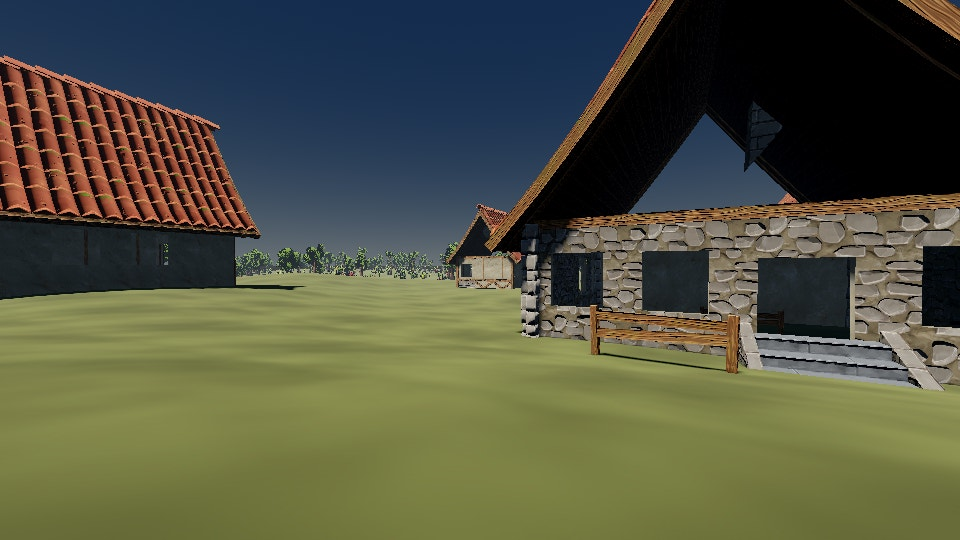
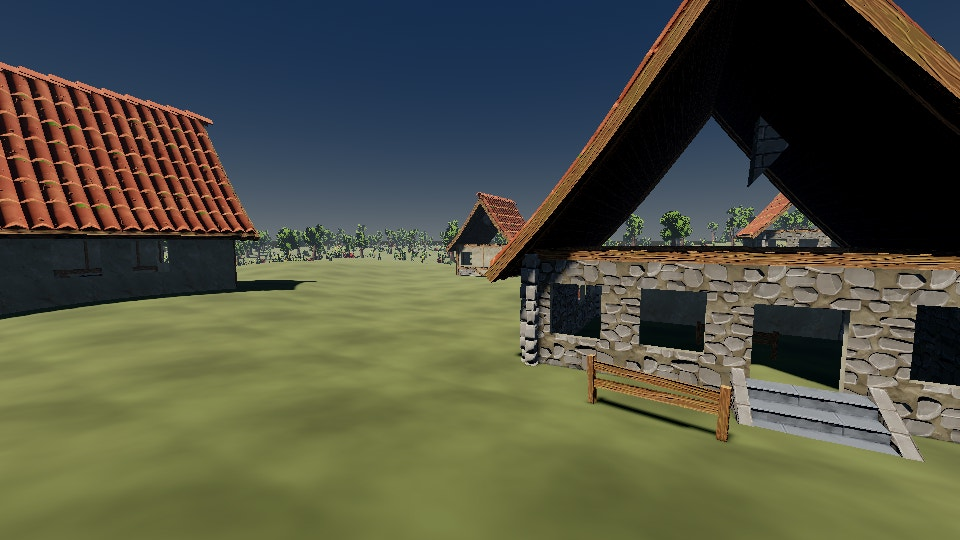
Chunks at 30 ms, and the black foreground was my camera
Measured rather than guessed, again. After the models were batched the
biggest thing left in a chunk was SurfaceTool at 17.7 ms: a script call
per vertex and per index over 4,225 vertices and 24,576 indices.
Writing the packed arrays straight into an ArrayMesh does the same work
without the per-call overhead, and the normals come off the heightfield
the chunk already sampled rather than from generate_normals() — two
subtractions and a normalize, smooth across chunk borders for free
because they derive from world-space heights rather than from this
chunk's triangles.

142 -> 54 -> 30 ms, which is under two frames at 60.

The rest of this is a correction. A render showed the ironwood forest
with a pure black foreground behind lit trees, and I twice blamed the
generator. First the analytic normals, measured against a
forward-difference "truth" that gave 45 degrees of error. Then the
ridged-noise crease being too sharp for a metre grid — softened it, and
the number did not move at all.

Neither was it. The forward differences were not truth, only a worse
approximation: against the mesh's own averaged face normals the central
differences the code uses are out by 29.9 degrees at worst and the
forward ones by 34.8. Reading the built chunk back settled it — zero
inverted normals and zero dark vertices in 4,225.

The fault was in genshot: it placed the ground camera at the TARGET's
height and then moved it forty metres away, so wherever the land rose
[…]

diff --git a/STATUS.md b/STATUS.md
@@ -2141,9 +2141,15 @@ Fixed with **MultiMesh** — the pieces are grouped by model and each
 group becomes one node drawing any number of copies from a transform
 array. Cost stops scaling with the number of trees and starts scaling
 with the number of DISTINCT trees, which is eighteen for the world.
-**142 ms → 54 ms.** Still ~3 frames, so more is needed before this is
-smooth, and the obvious next moves are threading the build and cutting
-the mesh commit.
+**142 ms → 54 ms.** Then measured again rather than guessed again: the
+biggest thing left was `SurfaceTool`, at 17.7 ms, because it is a
+script call per vertex and per index across 4,225 vertices and 24,576
+indices. Writing the packed arrays straight into an `ArrayMesh`, and
+taking normals from the heightfield instead of `generate_normals()`,
+brought it to **30 ms** — under two frames at 60 fps.
+
+Full history: **142 → 54 → 30 ms.** The next move, if it needs one, is
+threading the build; nothing else left is large.
 
 **Still unanswered: what any of this does on the phone.** That is the
 whole question, it cannot be answered here, and the spike is in the
@@ -2162,6 +2168,34 @@ you stand still — it should not.
   their own trunks. The timing number that came with that frame looked
   perfectly healthy, which is the point: no check would have caught
   either, and both were obvious in one frame.
+
+### And one I got wrong twice, which is the point of looking
+
+A render showed the ironwood forest with its whole foreground pure
+black behind lit trees. I theorised the analytic normals were
+inverted, measured them against a forward-difference "truth", got
+45 degrees of error and believed it. Then theorised the ridged-noise
+crease was too sharp for a one-metre grid, softened it, and the number
+did not move at all.
+
+Both wrong. The forward-difference comparison was not truth, just a
+worse approximation: against the mesh's own averaged face normals the
+central differences the code uses are out by 29.9 degrees at worst and
+the forward ones by 34.8, so the code was already the better of the
+two and the tail is the terrain genuinely being rough at vertex scale.
+Reading the built chunk back settled it — **zero inverted normals and
+zero dark vertices in 4,225.**
+
+The bug was in the render harness. `genshot` put the ground camera at
+the TARGET point's height and then moved it forty metres away, so
+wherever the land rose in between the camera stood inside a hill and
+looked out through the back of it. Eye height is now sampled under the
+camera.
+
+Worth writing down because the lesson is not "check the normals": it
+is that two plausible theories about the generator survived a
+measurement each, and what settled it was reading the actual data out
+of the actual chunk.
 
 Renders are committed at `prototype/assets/evidence/worldgen/`.
 
